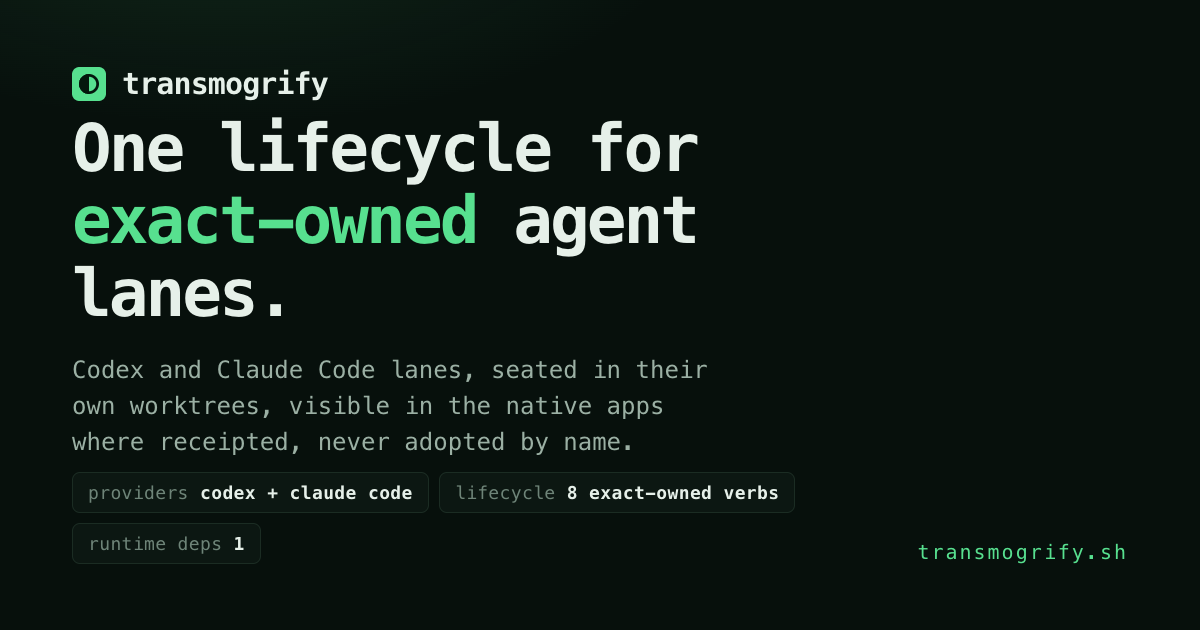
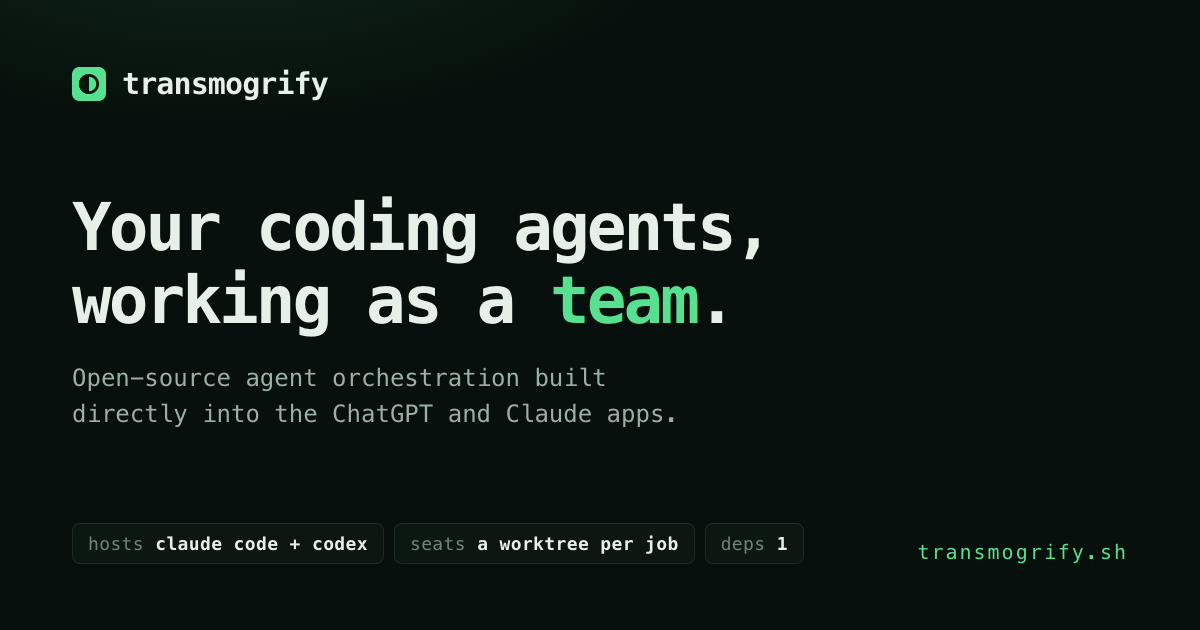
Use Nick's subheadline and regenerate the social card
Hero lede and site metadata become "Open-source agent orchestration built
directly into the ChatGPT and Claude apps." Widen the hero lede measure to
70ch so that sentence holds one line from 900px up and wraps normally below.

Regenerate og.png against the new copy: same headline as the page, two-line
card headline, three pins that fit one row.

Claude-Session: https://claude.ai/code/session_01XeWeFuMrAnP1fjT9wgbgUB

diff --git a/site/src/lib/site.ts b/site/src/lib/site.ts
@@ -3,9 +3,9 @@
 export const SITE_NAME = 'Transmogrify';
 export const SITE_ORIGIN = 'https://transmogrify.sh';
 export const SITE_TAGLINE =
-  'One skill that lets your coding agents put each other to work.';
+  'Open-source agent orchestration built directly into the ChatGPT and Claude apps.';
 export const SITE_DESCRIPTION =
-  'Transmogrify is an open-source skill for Claude Code and Codex. Install it and either app can put the other to work — each job in its own worktree, visible in the desktop and mobile apps you already use, and steerable while it runs.';
+  'Open-source agent orchestration built directly into the ChatGPT and Claude apps. Install one skill and either app can put the other to work — each job in its own worktree, visible while it runs, and steerable from your laptop or your phone.';
 
 /** Social card. Regenerate with `node scripts/make-images.mjs`. */
 export const OG_IMAGE = { path: '/og.png', width: 1200, height: 630 } as const;
